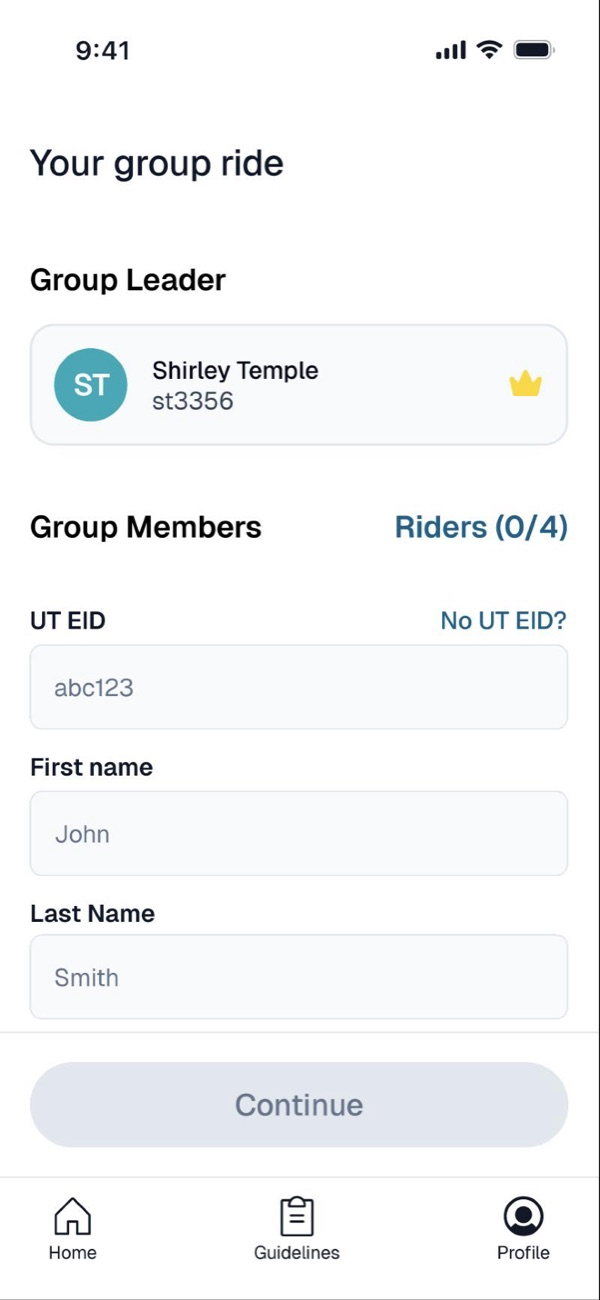
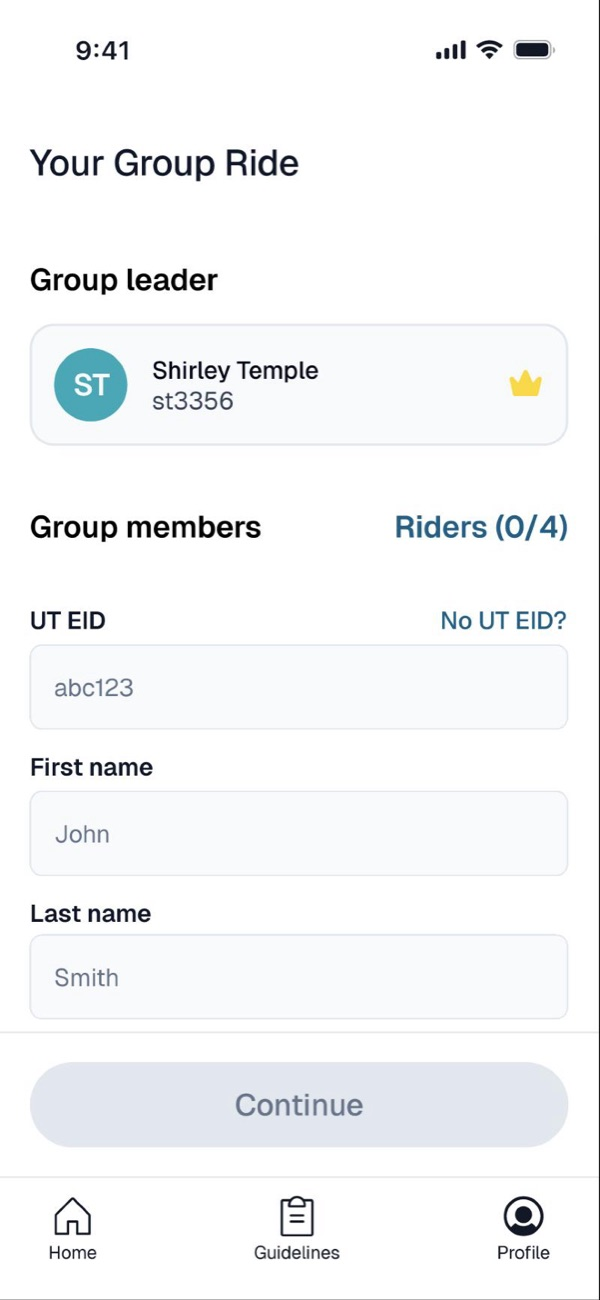
Recapture Sure Walk group ride screens with title-cased heading

diff --git a/project-surewalk.html b/project-surewalk.html
@@ -288,10 +288,10 @@
           </figure>
           <figure class="proto-demo">
             <div class="proto-phone" data-proto-demo>
-              <img src="images/surewalk-proto-group-01.jpg" data-tap="50 46.2" alt="Your Group Ride screen with the group leader and an Add Riders button" class="active" loading="lazy">
-              <img src="images/surewalk-proto-group-02.jpg" data-tap="50 52.8" alt="Add a rider form with UT EID, first name, and last name fields" loading="lazy">
-              <img src="images/surewalk-proto-group-03.jpg" data-tap="50 85" alt="Add a rider form filled in" loading="lazy">
-              <img src="images/surewalk-proto-group-04.jpg" alt="Your Group Ride screen with one rider added" loading="lazy">
+              <img src="images/surewalk-proto-group-01.jpg?v=2" data-tap="50 46.2" alt="Your Group Ride screen with the group leader and an Add Riders button" class="active" loading="lazy">
+              <img src="images/surewalk-proto-group-02.jpg?v=2" data-tap="50 52.8" alt="Add a rider form with UT EID, first name, and last name fields" loading="lazy">
+              <img src="images/surewalk-proto-group-03.jpg?v=2" data-tap="50 85" alt="Add a rider form filled in" loading="lazy">
+              <img src="images/surewalk-proto-group-04.jpg?v=2" alt="Your Group Ride screen with one rider added" loading="lazy">
             </div>
             <figcaption>Adding riders to a group ride</figcaption>
           </figure>
